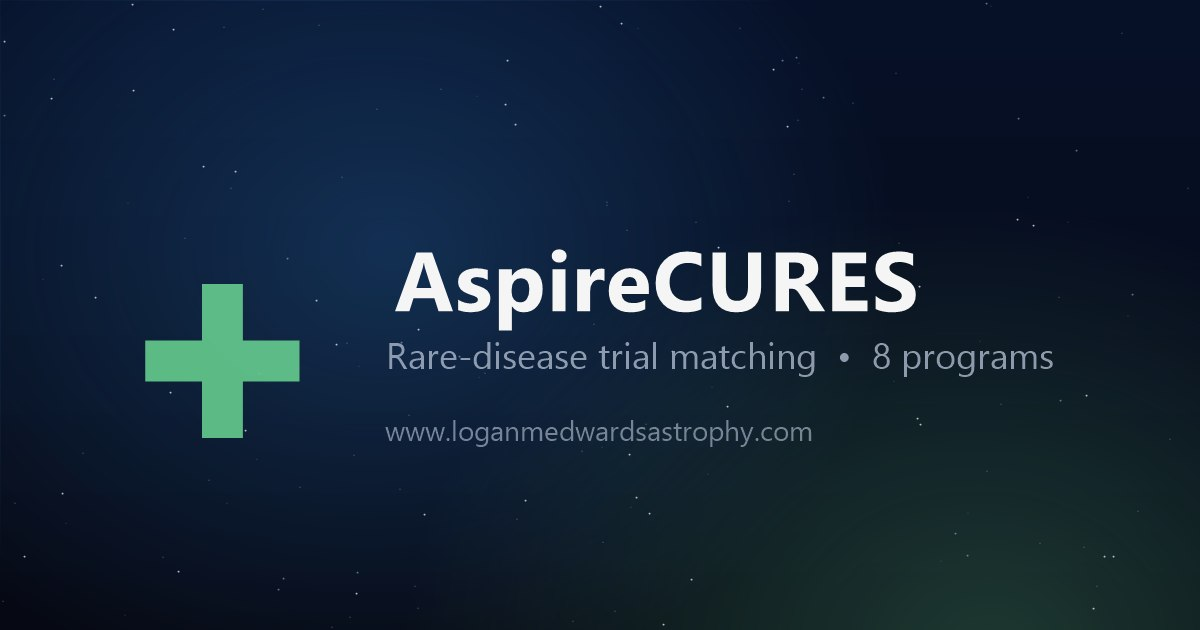
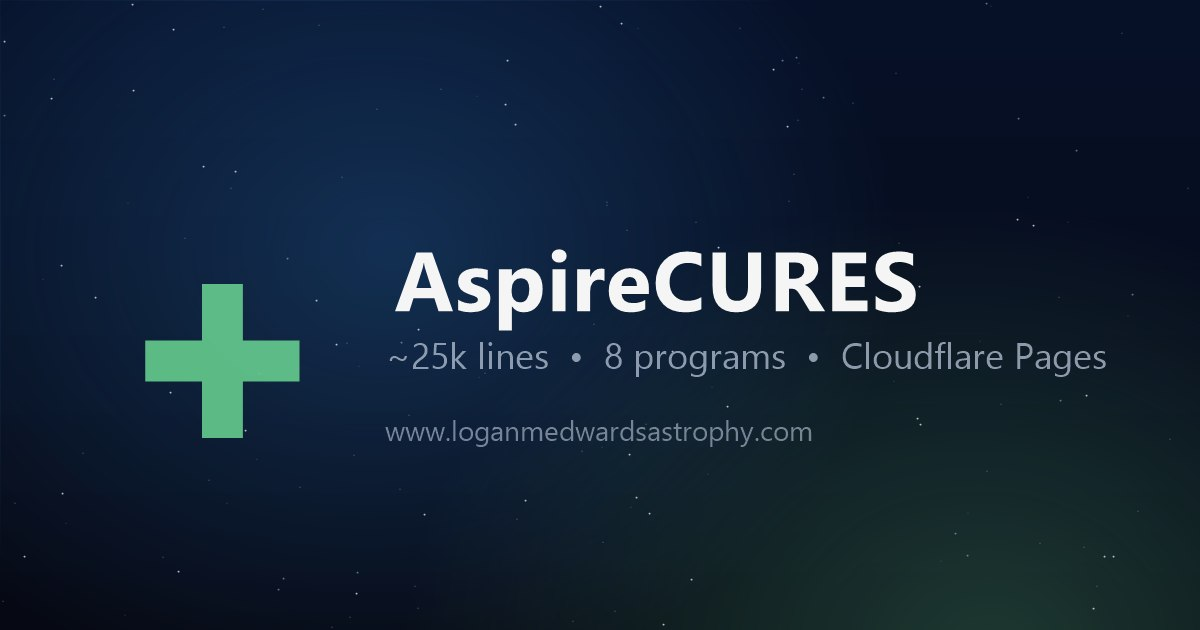
Ground AspireCURES page in the production repo; add LOC metric
Metrics now show real numbers from loggger101/aspirecures (24,939 lines
as of today, shown as ~25k) plus the 0-Squarespace-scripts independence
stat. Site visits intentionally omitted for now - GA4 data is private;
a follow-up will automate it via the GA4 Data API like the Kaggle stats
workflow.

Page copy corrected to the real architecture per the repo docs:
Squarespace capture -> Cloudflare Pages cutover -> full runtime
independence, serverless registration (Pages Function -> KV + Zoho CRM),
twice-weekly automated research feed, Perl/Bash mirror tooling.
Homepage card tech line/tags and OG subtitle updated to match.

Changed region(s): [[0.3083, 0.5429, 0.925, 0.6032]]

diff --git a/aspire-cures.html b/aspire-cures.html
@@ -22,7 +22,7 @@
     <meta property="og:title" content="AspireCURES Website | Logan M Edwards" />
     <meta
       property="og:description"
-      content="End-to-end web work for AspireCURES: initial build from scratch, a full redesign, and ongoing content upkeep across eight disease programs."
+      content="End-to-end web work for AspireCURES: launch build, Squarespace-to-Cloudflare replatform, serverless registration, and an automated research feed across eight disease programs."
     />
     <meta property="og:type" content="article" />
     <meta property="og:url" content="https://www.loganmedwardsastrophy.com/aspire-cures.html" />
@@ -31,7 +31,7 @@
     <meta name="twitter:title" content="AspireCURES Website | Logan M Edwards" />
     <meta
       name="twitter:description"
-      content="End-to-end web work for AspireCURES: initial build from scratch, a full redesign, and ongoing content upkeep across eight disease programs."
+      content="End-to-end web work for AspireCURES: launch build, Squarespace-to-Cloudflare replatform, serverless registration, and an automated research feed across eight disease programs."
     />
     <meta name="twitter:image" content="https://www.loganmedwardsastrophy.com/og-aspire.jpg" />
     <meta name="author" content="Logan M Edwards" />
@@ -45,19 +45,11 @@
         "@type": "CreativeWork",
         "name": "AspireCURES Website",
         "headline": "AspireCURES Website",
-        "description": "Public website for AspireCURES, a platform connecting patients with clinical trials, research studies, genetic testing, and specialists for rare white matter diseases and other neurodegenerative conditions. Built from scratch, later redesigned, and maintained on an ongoing basis.",
+        "description": "Public website for AspireCURES, a platform connecting patients with clinical trials, research studies, genetic testing, and specialists for rare white matter diseases and other neurodegenerative conditions. Self-hosted static site on Cloudflare Pages with a serverless registration form and an automated research feed; built, replatformed, and maintained on an ongoing basis.",
         "author": { "@type": "Person", "name": "Logan Edwards", "url": "https://www.loganmedwardsastrophy.com/" },
         "url": "https://www.loganmedwardsastrophy.com/aspire-cures.html",
         "image": "https://www.loganmedwardsastrophy.com/og-aspire.jpg",
-        "keywords": [
-          "web development",
-          "healthcare",
-          "clinical trials",
-          "patient advocacy",
-          "leukodystrophy",
-          "HTML",
-          "CSS"
-        ]
+        "keywords": ["web development", "healthcare", "clinical trials", "patient advocacy", "leukodystrophy", "Cloudflare Pages", "HTML", "CSS"]
       }
     </script>
     <script
@@ -90,12 +82,16 @@
         <p class="tl-dr__label">At a glance</p>
         <ul class="metrics-grid metrics-grid--compact">
           <li class="metric">
+            <span class="metric__value">≈25k</span>
+            <span class="metric__label">Lines of code</span>
+          </li>
+          <li class="metric">
             <span class="metric__value">8</span>
             <span class="metric__label">Disease programs</span>
           </li>
           <li class="metric">
-            <span class="metric__value">2</span>
-            <span class="metric__label">Full builds (launch + redesign)</span>
+            <span class="metric__value">0</span>
+            <span class="metric__label">Squarespace scripts</span>
           </li>
           <li class="metric">
             <span class="metric__value">Live</span>
@@ -104,7 +100,8 @@
         </ul>
         <p class="tl-dr__line">
           The public web presence for AspireCURES — a patient-and-researcher matching platform for rare
-          neurodegenerative diseases. Built from scratch, later redesigned, and kept current as programs grow.
+          neurodegenerative diseases. Now a fully self-hosted static site on Cloudflare Pages: launch build,
+          Squarespace replatform, and ongoing content upkeep.
         </p>
       </aside>
       <section class="section" id="overview">
@@ -112,14 +109,16 @@
         <p class="section-intro">
           AspireCURES connects patients with eligible clinical trials, research studies, genetic testing, specialists,
           and advocacy opportunities — with a focus on rare white matter diseases and leukodystrophies. Its mission is
-          summed up by the site's own tagline: <em>“Aspire to do more. Aspire for a cure.”</em>
+          summed up by the site's own tagline: <em>“Aspire to do more. Aspire for a cure.”</em> The site is fully
+          self-hosted: a plain HTML/CSS/JS build served from Cloudflare Pages, with no framework, no build step, and no
+          third-party platform runtime in the browser.
         </p>
         <p>
-          For rare-disease communities, the distance between a diagnosis and an actionable next step is enormous: trials
-          are scattered, eligibility criteria are dense, and reliable disease information is hard to find in one place.
-          The website is the organization's front door — it has to present each disease program clearly, route patients
-          and caregivers toward registration, and stay trustworthy enough for researchers and clinicians to point people
-          at.
+          For rare-disease communities, the distance between a diagnosis and an actionable next step is enormous:
+          trials are scattered, eligibility criteria are dense, and reliable disease information is hard to find in one
+          place. The website is the organization's front door — it has to present each disease program clearly, route
+          patients and caregivers toward registration, and stay trustworthy enough for researchers and clinicians to
+          point people at.
         </p>
       </section>
       <section class="section" id="role">
@@ -127,13 +126,24 @@
         <p class="section-intro">End-to-end ownership of the site across its whole life so far.</p>
         <ul class="contact-list">
           <li>
-            <strong>Initial build</strong> — designed and built the original site from scratch, establishing the
-            information architecture, page templates, and visual identity for the organization's launch.
+            <strong>Initial build</strong> — designed and built the organization's original launch site, establishing
+            the information architecture, page templates, and visual identity.
           </li>
           <li>
-            <strong>Redesign</strong> — carried out a full overhaul of the existing site's look and structure as the
-            organization matured: cleaner navigation, a modern pale-cream visual language, and optimized imagery (WebP)
-            for faster loads.
+            <strong>Replatform &amp; independence</strong> — migrated the site off Squarespace onto Cloudflare Pages
+            with custom Perl/Bash mirror-and-customize tooling, then removed the platform runtime entirely: all
+            interactivity now runs from small vanilla-JS modules, imagery is locally served WebP, and the content
+            security policy is tightened to first-party + analytics only.
+          </li>
+          <li>
+            <strong>Serverless registration</strong> — replaced the platform form with a Cloudflare Pages Function
+            that backs up every submission to Cloudflare KV and creates a lead in Zoho CRM before handing the visitor
+            to a thank-you page.
+          </li>
+          <li>
+            <strong>Automated research feed</strong> — a twice-weekly GitHub Action pulls new papers (Europe PMC,
+            PubMed) and trials (ClinicalTrials.gov), has an AI reviewer vet and summarize each item, and renders the
+            results into the eight disease pages.
           </li>
           <li>
             <strong>Content &amp; upkeep</strong> — ongoing maintenance: writing and updating disease-program pages,
@@ -153,12 +163,13 @@
             disease, Lewy body dementia, Nasu-Hakola disease, frontotemporal dementia, and multiple sclerosis.
           </li>
           <li>
-            <strong>Registration flow</strong> — a contact/registration form that routes patients and caregivers into
-            the matching process with a personalized, patient-centered approach.
+            <strong>Registration flow</strong> — a static form posting to a serverless <code>/api/register</code>
+            endpoint that routes patients and caregivers into the matching process with a personalized,
+            patient-centered approach.
           </li>
           <li>
-            <strong>Trust &amp; compliance</strong> — clear cookie policy and analytics kept to simple traffic
-            measurement, appropriate for a health-adjacent audience.
+            <strong>Trust &amp; compliance</strong> — hand-rolled, consent-gated analytics and a clear cookie policy,
+            appropriate for a health-adjacent audience.
           </li>
         </ul>
       </section>
@@ -166,10 +177,12 @@
         <h2>Content &amp; upkeep</h2>
         <p>
           A site like this is never "done" — programs are added as new research partnerships form, and existing pages
-          need revisiting as trial availability changes. The ongoing work is editorial as much as technical: keeping
-          disease descriptions accurate and readable for families who may have just received a diagnosis, while staying
-          precise enough to be useful to clinicians. This project overlaps with my broader involvement in the
-          rare-disease advocacy space alongside the Sisters Hope Foundation.
+          need revisiting as trial availability changes. The automated research feed carries the heaviest part of that
+          load: new publications and trials land on the disease pages twice a week without manual editing. The rest of
+          the ongoing work is editorial as much as technical: keeping disease descriptions accurate and readable for
+          families who may have just received a diagnosis, while staying precise enough to be useful to clinicians.
+          This project overlaps with my broader involvement in the rare-disease advocacy space alongside the Sisters
+          Hope Foundation.
         </p>
       </section>
       <section class="section" id="links">

diff --git a/index.html b/index.html
@@ -229,8 +229,8 @@
                 <span aria-hidden="true" class="project-icon-link" data-project="aspire-cures"> ✚ </span>
                 <div aria-label="Project tags" class="project-badges">
                   <span class="tag">Web Development</span>
+                  <span class="tag">Cloudflare</span>
                   <span class="tag">Healthcare</span>
-                  <span class="tag">Advocacy</span>
                 </div>
               </div>
               <h3>AspireCURES Website</h3>
@@ -243,7 +243,7 @@
                 conditions.
               </p>
               <p class="project-tech project-body">
-                <strong>Role:</strong> Full build from scratch, later redesign, ongoing content &amp; upkeep
+                <strong>Tech:</strong> HTML/CSS/JS, Cloudflare Pages + Functions, Zoho CRM, GitHub Actions
               </p>
               <div aria-label="Project links" class="project-actions-row">
                 <a class="link-chip" href="https://www.aspirecures.com/" rel="noopener" target="_blank">Live site</a>
@@ -253,8 +253,8 @@
                 <div class="overlay-box">
                   <p class="overlay-label">Quick view</p>
                   <p class="overlay-text">
-                    End-to-end web work for a rare-disease trial-matching platform: launch build, full redesign, and
-                    content upkeep across eight disease programs.
+                    Launch build, Squarespace-to-Cloudflare replatform, serverless registration, and an automated
+                    research feed across eight disease programs.
                   </p>
                   <div class="overlay-actions">
                     <a
